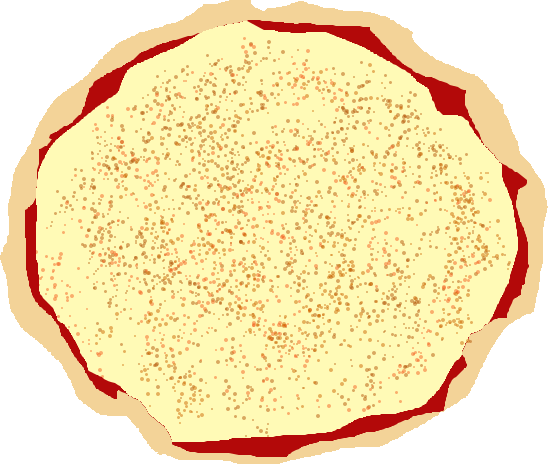
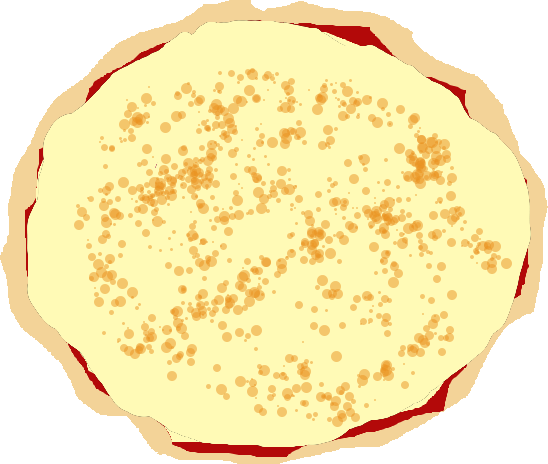
Diseño TPV, Ajax Pizzas, Desplegable pizzas, mejora modelos y vistas Ajax en vistas Django

Changed region(s): [[0.031, 0.0302, 0.9927, 0.9655], [0.2792, 0.0603, 0.3723, 0.1207]]

diff --git a/Comanda/templates/Comanda/novaComanda.html b/Comanda/templates/Comanda/novaComanda.html
@@ -61,9 +61,35 @@
 	<div class="body">
 		<div id="zonaPizza">
 			{% load staticfiles %}
+			
 		</div>
 		<div id="zonaTicket">
-			
+			<div id="ticket">
+				<div id="infoEmpresaTicket">
+					<img src="{% static 'img/logo-pizza.png' %}" alt="Logo Empresarial Per Al Ticket" class="logoTicket" />
+					<p class="dadesEmpresaTicket">
+						CendraPizza SL.<br>
+						C/ Pelai Martínez 2<br>
+						Figueres, 17600 (Girona)<br>
+						972<br>
+						administracio@cendrapizza.cat
+					</p>
+				</div>
+				<div id="detallTicket">
+					<div class="table-responsive">
+					  <table class="table">
+					    <tr>
+					    	<td>Quantitat</td>
+					    	<td>Pizza</td>
+					    	<td>Preu</td>
+					    </tr>
+					    <tr>
+					    	
+					    </tr>
+					  </table>
+					</div>
+				</div>
+			</div>
 		</div>
 	</div>
 	<div class="foot">
@@ -86,18 +112,37 @@
 		document.getElementById("hora").innerHTML = '<span class="glyphicon glyphicon-time"></span> ' + hora;
 	}
 	setInterval(getData, 1000);
-	var baseP = "<img src=" + "{% static 'img/basePizza.png' %}" + " class=" + "basePizza"  + ">";
+	var baseP = "<img src=" + "{% static 'img/basePizza.png' %}" + " class=" + "basePizza"  + " alt=" + "Pizza Seleccionada" + ">";
 	$("#pizzes li a").click(function(e){
 		var varietatPizza =  $(e.target).text();
 		if(varietatPizza != "Al Gust"){
 			$("#botoIng").addClass("disabled");
 			$("#zonaPizza").html(null);
+			var pizza = 'nom_pizza=' + varietatPizza;
+			var fitxer;
+			$.ajax({
+				url: '/Comanda/consultaPizza',
+				data: pizza,
+				type: 'GET',
+				dataType: 'json',
+				success: function( data, textStatus, jqXHR) {
+					fitxer = data.nomFitxer;
+					var inici = "<img src='{% static 'img/";
+					inici = inici.concat(fitxer);
+					inici = inici.concat("' %}' class='basePizza' alt='Pizza Seleccionada' />");
+					console.log(inici);
+					var baseP = "<img src='{% static 'img/' %}" + fitxer +  "' class='basePizza' />";
+					$("#zonaPizza").append(baseP);
+				},
+				error: function( jqXHR, textStatus, errorThrown ) {
+					alert(errorThrown);
+				}
+			});
 		} else {
 			$("#botoIng").removeClass("disabled");
 			$("#zonaPizza").html(null);
 			$("#zonaPizza").append(baseP);
 		}
-		
 	});
 </script>
 {% endif %}

diff --git a/staticProjecte/css/css.css b/staticProjecte/css/css.css
@@ -188,3 +188,29 @@ div:hover.efecte img.hover{
 	overflow-y: scroll;
 	height: 350px;
 }
+
+#ticket{
+	background-color: #FFFFFF;
+	width: 85%;
+	height: 80%;
+	margin: auto;
+}
+
+#detallTicket{
+	position: absolute;
+	margin-top: 87px;
+	width: 30%;
+}
+
+.logoTicket{
+	position: absolute;
+	width: 9%;
+	display: inline-block;
+}
+
+.dadesEmpresaTicket{
+	display: inline-block;
+	position: absolute;
+	font-size: small;
+	margin-left: 110px;
+}

diff --git a/Comanda/views.py b/Comanda/views.py
@@ -1,16 +1,30 @@
 # -*- encoding: utf-8 -*-
 from django.shortcuts import render
-from django.http import HttpResponseRedirect
+from django.http import HttpResponseRedirect, HttpResponse
 from django.core.urlresolvers import reverse
-from Comanda.models import TipusPizza, Ingredient, Varietat
+from Comanda.models import TipusPizza, Ingredient, Varietat, Comanda, VarietatPizzes, IngredientEnPizza, DadesComanda
 from Comanda.forms import AfegirPizza, AfegirIngredient
 from django.contrib import messages
+import json
+import datetime
+
 
 def NovaComanda(request):
+    data = datetime.datetime.now()
     pizzes = Varietat.objects.all()
     tipus = TipusPizza.objects.all()
     ingredients = Ingredient.objects.all()
+    c = Comanda()
+    c.comanda_pagada = False
+    c.data_comanda = data
     return render(request, 'Comanda/novaComanda.html', {'pizzes' : pizzes, 'tipus' : tipus, 'ingredients' : ingredients})
+
+def ConsultaPizza(request):
+    pizza = request.GET.get('nom_pizza')
+    varietat = Varietat.objects.get(nom_pizza = pizza)
+    respostaAjax = dict()
+    respostaAjax['nomFitxer'] = varietat.imatge_pizza_ext
+    return HttpResponse(json.dumps(respostaAjax), content_type = 'application/json')
 
 def LesMevesComandes(request):
     return render(request, 'Comanda/lesMevesComandes.html')

diff --git a/Comanda/models.py b/Comanda/models.py
@@ -1,3 +1,5 @@
+# -*- encoding: utf-8 -*-
+from django.contrib.auth.models import User
 from django.db import models
 
 class Comanda(models.Model):
@@ -6,14 +8,13 @@ class Comanda(models.Model):
     hora_comanda = models.DateTimeField(blank = False)
     import_comanda = models.IntegerField(blank = False)
     comanda_pagada = models.BooleanField(blank = False)
-    
+    client = models.OneToOneField(User)
     
 class Ingredient(models.Model):
     nom_ingredient = models.TextField(max_length = 150, blank = False)
     preu_ingredient = models.IntegerField(blank = False, null = True)
     stock = models.IntegerField(blank = False, null = True)
     extensio_imatge = models.CharField(blank = False, max_length = 100)
-    
     
     def __unicode__(self):
         return self.nom_ingredient
@@ -22,7 +23,7 @@ class Varietat(models.Model):
     nom_pizza = models.TextField(max_length = 100, blank = False)
     preu_base = models.IntegerField(blank = False, null = True)
     es_predefinida = models.BooleanField(blank = False)
-    imatge_pizza_ext = models.CharField(blank = False, max_length = 100)
+    imatge_pizza_ext = models.TextField(blank = False, max_length = 100)
     
     def __unicode__(self):
         return self.nom_pizza

diff --git a/Comanda/urls.py b/Comanda/urls.py
@@ -10,5 +10,7 @@ urlpatterns = patterns('',
     url(r'^comandesClients/', views.ComandesClients, name='comandesClients'),
     
     url(r'^entradaProductes/', views.EntrarProducte, name='entradaProductes'),
+    
+    url(r'^consultaPizza/', views.ConsultaPizza, name='consultaPizza')
 
 )
